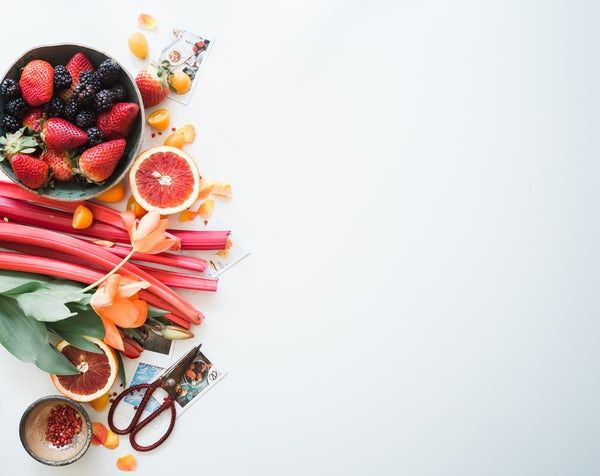
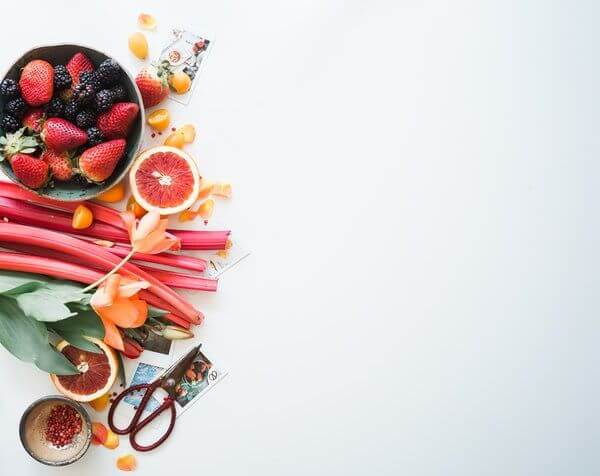
fixed hero background and images optimization

diff --git a/src/assets/scss/components/_hero.scss b/src/assets/scss/components/_hero.scss
@@ -7,18 +7,29 @@
  */
 
 .hero{
-  min-height: calc(100vh - 54px );
+  min-height: rem-calc(300px);
+  
   position: relative;
   display: flex;
   justify-content: center;
-  align-items: center;
+  align-items: flex-start;
+  
+  @include breakpoint(medium) {
+    min-height: calc(100vh - 54px );
+    align-items: center;
+  }
 
   .image-background{
-    background-image: url('../img/ven-al-brunch-pr-2.jpg');
-    background-size: cover;
-    background-attachment: fixed;
-    background-position: 50% 100%;
+    background-image: url('../img/hero-background-mobile.png');
+    background-size: 110vw;
+    background-position: center bottom;
     background-repeat: no-repeat;
+    @include breakpoint(medium) {
+      background-image: url('../img/ven-al-brunch-pr-2.jpg');
+      background-attachment: fixed;
+      background-size: cover;
+      background-position: 50% 100%;
+    }
 
     position: absolute;
     left: 0;
@@ -28,5 +39,6 @@
   .button{
     position: absolute;
     background-color:#FFAF65;
+    margin-top: 2rem;
   }
 }

diff --git a/src/pages/index.html b/src/pages/index.html
@@ -4,7 +4,7 @@ meta-title: El brunch | Puerto Rico
 
 <section class="section hero" id="hero">
   <div class="image-background"></div>
-  <a href="#" class="button large">REGISTRARME</a>
+  <a href="#register" class="button large">REGISTRARME</a>
 </section>
 
 <section class="section info">
@@ -56,7 +56,7 @@ meta-title: El brunch | Puerto Rico
   </div>
 </section>
 
-<section class="section register">
+<section class="section register" id="register">
   <h3 class="section-title text-center">¡Regístrate!</h3>
   <form action="https://elbrunchpr.us19.list-manage.com/subscribe/post?u=744597674a69ec9a12b70781a&amp;id=053ea420ac"
     method="POST">
